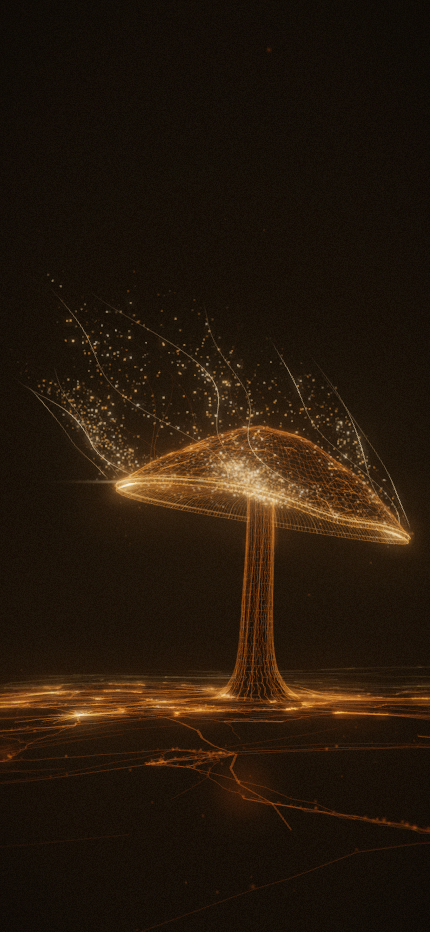
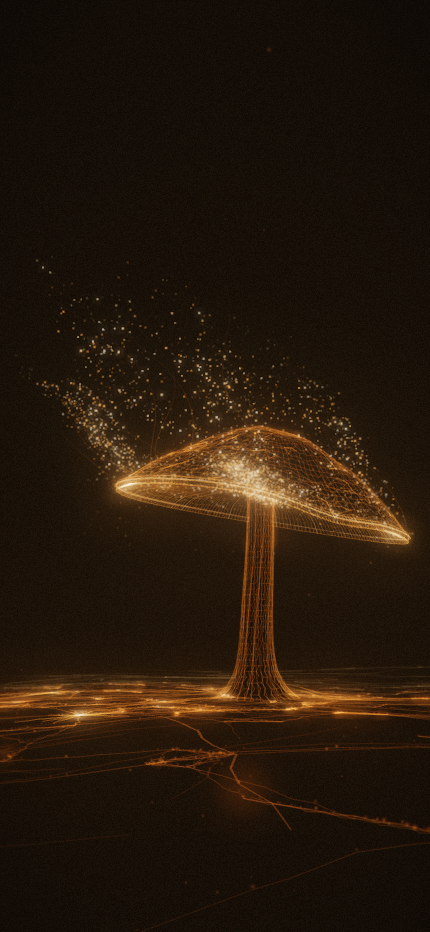
Inspire: the shed is emphasized, not replaced
Hannah rode into Inspire and found three things: a glitchy swap where the
old particles disappear and new ones arrive, plumes that "look like ARROWS
... trashy, because the arrows don't look like organic particles", and a
shed that should come from EVERYWHERE and merely be more emphasized in
three parts. They turned out to be one fault. The leg was authored as a
REPLACEMENT: the whole shed was dimmed away and a designed structure drawn
in its place. Every change here is the same move — stop deleting the shed.

The swap was a seam, and it was our own regression. T1 armed 40.3 deg from
Mission, absolute azimuth 28.1 — ten degrees INSIDE a reveal ramp that
already starts at az 14. That was right when it was written; c6bbbab pulled
the ramps in to make the three streams resolve and left the seam behind,
along with a comment still promising it could never step on them. Measured
across that one gate: 0 -> 1975 converted dots, total shed luminance -22.2%,
dots above 0.60 luminance -47%. The threshold is now derived from the ramps
rather than chosen, so both its edges sit where the reveal is exactly zero.

The disappearance was double-counting. spores.js already hands over per dot
-- f = f * (1 - cv) + pw, conservative by construction. On top of it the
chapter ran three more whole-population dim channels, which took light from
the dots that had not converted yet: they lost ambient and gained no plume.
Total luminance fell 30% mid-approach, and 42% of the shed dropped below a
[…]

Changed region(s): [[0.0907, 0.3112, 0.9372, 0.5601], [0.3628, 0.3423, 0.393, 0.3734]]

diff --git a/journey/chapters/inspire/index.js b/journey/chapters/inspire/index.js
@@ -161,7 +161,15 @@ const tmpC = new THREE.Color();
 const T_SHIPPED = 0.85;
 const T_STEP = 0.05;
 const STREAK_FLOOR = 0.25;
-const CORE_OPACITY = 0.62;               // the ribbons' authored opacity
+// CORE RIBBONS — RETIRED (Hannah, 2026-08-06: "it looks like ARROWS ... the
+// arrows don't look like organic particles"). They were 648 drawn LineSegments
+// threading each braid at 0.53 opacity, and in the inspire golden they were the
+// long pale strokes arcing over the cap — the single loudest non-particulate
+// form in the frame, and a different substance from the warm dust the opening
+// view sheds. A continuous line cannot read as dust at any opacity, so this is
+// zero rather than a smaller number. The braid is carried by the dots alone,
+// which is what §3's one-population claim always said it was.
+const CORE_OPACITY = 0.0;
 // clamping/grid-snap now lives in ../../dial.js (createDial), which this
 // module's tDial instance owns — see the master TRANSFORM state block below.
 // ribbons: x T with an extra low-end gate so they are effectively gone below
@@ -799,6 +807,11 @@ export function createInspire(sceneApi) {
     g.setAttribute('aRimC', new THREE.Float32BufferAttribute(rArr, 3));
     const l = new THREE.LineSegments(g, coreMat);
     l.frustumCulled = false;                             // positions live in the shader
+    // RETIRED with CORE_OPACITY (see its note): kept built but never drawn, so
+    // the trace-back uniform writes below stay valid and the ribbon is one
+    // constant away from returning if the dots ever need help again. Marking it
+    // invisible — not just transparent — is what actually drops the draw call.
+    l.visible = false;
     group.add(l);
     return l;
   })();
@@ -1077,7 +1090,11 @@ export function createInspire(sceneApi) {
       for (let i = 0; i < 3; i++) {
         c.setComponent(i, ((i === active || i === selected) ? 1 : (i === effActive ? 0.35 : 0)) * T);
         const st = streaks[i];
-        st.o = (i === effActive ? 0.42 : 0) * furnOf(i) * stkScale;
+        // hover/selection only — MUST stay identical to the animator's `want`
+        // (see the note there). snap() is the path every frozen capture and
+        // every ?p= deep link takes, because dt = 0 freezes the animator's
+        // easing, so a law that lives in both places has to be changed in both.
+        st.o = ((i === active || i === selected) ? 0.42 : 0) * furnOf(i) * stkScale;
         st.sprite.visible = st.o > 0.01;
         for (const m of exits[i].mats) {
           const fadeV = m === exits[i].wispMat ? eff[i] : furnOf(i);
@@ -1258,43 +1275,45 @@ export function createInspire(sceneApi) {
       cohTarget[i] = ((i === active || i === selected) ? 1 : (i === effActive ? 0.35 : 0)) * T;
     }
 
-    // The shed's half of the handoff — runs OUTSIDE the anyVisible gate so
-    // the exact restore fires when the leg retires. Region strength tracks
-    // each exit's effective reveal; endpoints ride the live mushroom matrix.
+    // THE SHED DOES NOT CEDE ANY MORE — it is EMPHASIZED (Hannah, 2026-08-06:
+    // "there should be particles coming from EVERYWHERE, but they should just
+    // be MORE EMPHASIZED in three parts"). All three dim channels below are
+    // retired to zero, and the reason is arithmetic, not taste.
+    //
+    // organism/spores.js already performs the whole hand-over PER DOT, in the
+    // one line `f = f * (1 - cv) + pw`: a dot cedes exactly as much of its
+    // ambient look as it has actually converted, and gains exactly its own
+    // plume brightness. That is conservative by construction. Every channel
+    // here was a SECOND, whole-population hand-over stacked on top of it, and
+    // it double-counted against the dots that had not converted yet — they
+    // lost ambient light while gaining no plume light. Measured on the live
+    // buffer across the approach: total shed luminance 2746 (p 0.115) -> 1920
+    // (p 0.14), a 30% trough, with dots above 0.30 luminance falling 4200 ->
+    // 2426 before recovering. That trough IS "the particles that are there
+    // before kind of disappear, and then new particles appear".
+    //
+    // The three channels, and why each is zero rather than smaller:
+    //   regions — dimmed the shed exactly where each plume lives, i.e. it
+    //     cleared the background out from behind the emphasis. Under the new
+    //     model the surrounding shed is the SUBJECT, not the background.
+    //   globalK — dimmed the whole curtain to 3% at full reveal. It existed
+    //     for ride-through #3 ("the plumes must not ignite BESIDE the old
+    //     curtain"), which the per-dot exchange answers on its own.
+    //   grad — dissolved the far-downwind history. Those are real spores the
+    //     opening view sheds; deleting them is the disappearance by name.
+    // Zero is also the only value that is exactly reversible for free.
     const mw = sceneApi.groups.mushroom.matrixWorld;
     for (const rg of shedRegions) {
       rg.a.copy(rg.la).applyMatrix4(mw);
       rg.b.copy(rg.lb).applyMatrix4(mw);
-      // taste dial: the shed only cedes as far as the braid actually takes
-      // over — every dim channel scales with the same T as the takeover
-      rg.k = rg.gain * eff[rg.exit] * T;
+      rg.k = 0;
     }
-    // Ride-through #3 (Hannah): the plumes must not ignite BESIDE the old
-    // curtain — as the exits complete, the WHOLE shed cedes to the structured
-    // system. Delta retime (Hannah's third note): the hand-over is now WEIGHTED
-    // ACROSS the three phases instead of keyed to the furthest exit, so the
-    // original stream's curtain survives phase A at ~50% and only finishes
-    // ceding as the LAST current arrives — the source never dies before its
-    // delta has visibly taken over. Still a pure function of the effective
-    // reveals: reverse scroll re-inflates the curtain the same way.
-    const S3 = (x) => { x = (x - 0.25) / 0.65; x = x < 0 ? 0 : x > 1 ? 1 : x; return x * x * (3 - 2 * x); };
-    // taste dial: the whole-shed cede scales with T — at T = 0 the curtain
-    // never dims at all (the stream stays exactly the hero's)
-    const gk = (0.50 * S3(eff[0]) + 0.28 * S3(eff[1]) + 0.22 * S3(eff[2])) * T;
-    // Ride-through #5 (Hannah, "still two sources"): the shed's FAR-DOWNWIND
-    // history — old spores that drifted away long before the orbit — hangs in
-    // the sky as a detached cloud while the braid grows at the rim. It is not
-    // the source; it dissolves EARLY (with the first arrival), distance-graded
-    // from the cap centre, while the near-rim live stream follows `gk` above
-    // and is absorbed by the braid. One stream, no history-ghost.
-    let hk = (eff[0] - 0.02) / 0.22;
-    hk = hk < 0 ? 0 : hk > 1 ? 1 : hk;
-    hk = hk * hk * (3 - 2 * hk);
+    const gk = 0;
     _capC.set(0, sceneApi.consts.CAP_Y, 0).applyMatrix4(mw);
     _grad.sx = _capC.x; _grad.sy = _capC.y; _grad.sz = _capC.z;
     _grad.d0 = sceneApi.consts.CAP_R * 1.2;
     _grad.d1 = sceneApi.consts.CAP_R * 2.6;
-    _grad.k = hk * T;   // taste dial: history dissolve is a dim channel too
+    _grad.k = 0;
     // The seat, driven (runs OUTSIDE the anyVisible gate so the release path
     // always executes): one call carries the whole frame's intent — the
     // system steers its own dots first, then its color pass reads the
@@ -1344,9 +1363,17 @@ export function createInspire(sceneApi) {
 
     for (let i = 0; i < 3; i++) {
       const st = streaks[i];
+      // HOVER/SELECTION ONLY (Hannah, 2026-08-06). This sprite is a 12:1
+      // anamorphic blade — the hardest, whitest, least particulate form in the
+      // chapter — and it used to sit lit at the REST on the merely-derived auto
+      // exit, which is the white bar across the cap's left rim in the old
+      // inspire golden. It is a lens answering a poke, not a resting state, so
+      // the derived case is now zero and only a real hover or an open card
+      // lights it. The chips are unaffected: nodeWorld() anchors off
+      // streaks[i].localPos, a position, which exists whether or not it draws.
       // taste dial: the streak keeps a modest floor even at T = 0 — it is
       // the active label's living anchor (see stkScale above)
-      const want = (i === effActive ? 0.42 : 0) * furnOf(i) * stkScale;
+      const want = ((i === active || i === selected) ? 0.42 : 0) * furnOf(i) * stkScale;
       st.o += (want - st.o) * Math.min(1, dt * 2.4);
       if (st.o < 0.02 && want === 0) st.o = 0;   // die cleanly, no lingering blade
       // a lens catching an exceptional source: slow breathing, slight shimmer

diff --git a/journey/seams.js b/journey/seams.js
@@ -87,17 +87,36 @@ export function createSeams({ camera, chapters, missionAz = -0.213 }) {
 
     // T1 - stream-side reveal (D16 restage: the orbit is now a ~90 deg swing
     // toward the visible stream, so the old ~100 deg rear threshold would
-    // never be crossed). Arms once the azimuth passes ~48 deg from the
-    // Mission azimuth — comfortably before the reveal ramps begin (az ~34 in
-    // desktop-absolute terms = ~46 deg past Mission) and far outside the
-    // orbit-breath wobble. The journey's own progress is an equally valid
+    // never be crossed). The journey's own progress is an equally valid
     // driver, but the ADR specifies the camera predicate, so that is what
     // runs; p only supplies the relaxation once the path has dropped under
     // the cap on its way to Connect.
+    //
+    // THE THRESHOLD IS 34, AND IT IS DERIVED, NOT CHOSEN (2026-08-06). Arming
+    // must land where the chapter's own CAMERA-PURE reveal is exactly zero —
+    // the same law T2 states below, and the only thing that makes a seam
+    // invisible rather than merely small. Inspire's reveal is
+    // `sm(18, 48, az) * arrOf(az, 14, 44)` (chapters/inspire/index.js), so it
+    // is identically zero for absolute az <= 14, i.e. d <= 26.2 with Mission at
+    // az -12.21. With HYS_DEG = 8 the gate arms at d > 34 - 8 = 26 (az 13.8)
+    // and releases at d < 34 - 16 = 18 (az 5.8): BOTH edges sit on exact zero,
+    // with both factors of the product zero, so a shaky scrub cannot strobe
+    // anything visible either way.
+    //
+    // It used to be 48, which armed at d = 40 (az 28.1) — TEN DEGREES INSIDE an
+    // already-open ramp. 48 was correct when it was written: the ramps then
+    // began at az 36, exactly where it armed. Commit c6bbbab pulled them in to
+    // (18,48)/(38,62)/(54,78) to make the three streams resolve and did not
+    // move this number with them, so the gate started opening onto a reveal
+    // that was already ~15% up. Measured on the live buffer either side of that
+    // crossing: converted dots 0 -> 1975 in one gate, total shed luminance
+    // -22.2%, dots above 0.60 luminance -47%. That step is the "different
+    // stream of particles that appears" Hannah reported. Anything that re-keys
+    // those ramps must re-derive this number from them again.
     {
       const d = Math.abs(((az - missionAz + Math.PI) % (2 * Math.PI) + 2 * Math.PI) % (2 * Math.PI) - Math.PI) / DEG;
-      const inside = d > 48 - HYS_DEG && p < T1_RELAX_IN;
-      const outside = d < 48 - HYS_DEG * 2 || p > T1_RELAX_OUT;
+      const inside = d > 34 - HYS_DEG && p < T1_RELAX_IN;
+      const outside = d < 34 - HYS_DEG * 2 || p > T1_RELAX_OUT;
       const on = gate('rear-cap', inside, outside, now);
       chapters.inspire.setArmed(on);
     }

diff --git a/journey/chapters/inspire/anatomy.js b/journey/chapters/inspire/anatomy.js
@@ -70,8 +70,28 @@
 // pearls along each winding core read. ArtCompute's is damped to 0.58 because
 // it already carries half the dots — without that the centre braid drowns the
 // two flanks and the frame reads as one plume with wings.
+// RISE SPREAD IS THE DENSITY DIAL (2026-08-06). Each plume's dots are handed a
+// rise drawn uniformly from [riseMin, riseMax], so the MEAN sets where the
+// plume ends — the composition, the chip clearance, the dome crossing — and the
+// SPREAD sets how concentrated it reads on the way there. Those are separable,
+// and until now only the mean was being used.
+//
+// This matters because the exit weighting is 50/28/22 (W_EXIT0 in
+// organism/spores.js, read-only), so ArtCompute has 2,100 dots against 2RP's
+// 924 and outshines both flanks however they are lit — the residual this file
+// has carried since D18. With the core ribbons retired (see index.js) the dots
+// are the only thing marking the three regions, so the flanks have to earn
+// their definition from density rather than from a drawn line through them.
+//
+// Every mean below is UNCHANGED to 3 decimal places, so no plume moves and the
+// approved D18 composition, label solve and clearances all still hold:
+//   ArtCompute 1.70-2.20 -> 1.55-2.35  mean 1.950 (spread x1.60: deliberately
+//     DIFFUSED, so the centre stops drowning the flanks)
+//   Arca       1.05-1.40 -> 1.13-1.32  mean 1.225 (spread x0.54: concentrated)
+//   2RP        1.76-2.21 -> 1.87-2.10  mean 1.985 (spread x0.51: concentrated,
+//     the weakest plume and the one that needed it most)
 export const EXITS = [
-  { id: 'artcompute',   label: 'ArtCompute',         az: 5.83, riseMin: 1.7, riseMax: 2.2, lean: 0.52, tone: 0.66, knot: 0.58 },
-  { id: 'arca',         label: 'Arca Gidan Prize',   az: 6.98, riseMin: 1.05, riseMax: 1.4, lean: 0.42, tone: 0.6, knot: 0.95 },
-  { id: '2rp',          label: '2RP',                az: 4.68, riseMin: 1.76, riseMax: 2.21, lean: 0.38, tone: 0.74, knot: 1.0 },
+  { id: 'artcompute',   label: 'ArtCompute',         az: 5.83, riseMin: 1.55, riseMax: 2.35, lean: 0.52, tone: 0.66, knot: 0.58 },
+  { id: 'arca',         label: 'Arca Gidan Prize',   az: 6.98, riseMin: 1.13, riseMax: 1.32, lean: 0.42, tone: 0.6, knot: 0.95 },
+  { id: '2rp',          label: '2RP',                az: 4.68, riseMin: 1.87, riseMax: 2.10, lean: 0.38, tone: 0.74, knot: 1.0 },
 ];

diff --git a/journey-v6-plan/07-chapter-inspire.md b/journey-v6-plan/07-chapter-inspire.md
@@ -181,3 +181,163 @@ per-exit fades → (18,48)/(38,62)/(54,78), band (5,28).
   thing when I rotate around" note that `T` was introduced to restrain. It is
   the number in this restage most likely to want Hannah's own eye; `?t=` still
   rides it live, and below ~0.78 the three streams collapse back into one.
+
+---
+
+## 2026-08-06 — The shed is EMPHASIZED, not replaced (Hannah)
+
+Hannah, on the ride into Inspire: *"it feels like there's a different stream of
+particles that appears … the particles that are there before kind of disappear,
+and then new particles appear, and it's just a really glitchy transition … the
+one that shows when you turn around, it looks like ARROWS. It looks kind of
+trashy as a result, because the arrows don't look like organic particles. And
+also — there should be particles coming from EVERYWHERE, but they should just be
+MORE EMPHASIZED in three parts."*
+
+Three complaints, one root: **the leg was authored as a REPLACEMENT.** The whole
+shed was dimmed away and a designed structure was drawn in its place. Every fix
+below is the same move — stop deleting the shed, and let the three regions be
+emphases *within* it.
+
+### Diagnosis, with the numbers that found it
+
+All figures are the live 4,200-dot buffer at 1440×900: luminance is Rec.709 on
+the colour attribute, "v30"/"v60" are dot counts above 0.30 / 0.60 luminance,
+"cvAct" is dots with conversion > 0.01 read off the seat's own per-dot feed.
+The sampling noise floor, from 8 repeats parked at the rest, is ±2.0% on total
+light, ±2.3% on v30, ±3.0% on v60.
+
+**1. The swap was a seam, and it was a regression.** `seams.js` armed T1 at
+`d > 48 - HYS_DEG` = 40.3° from Mission, i.e. absolute camera azimuth 28.1°. But
+the chapter's reveal is `sm(18,48,az) × arrOf(az,14,44)`, which starts opening at
+az 14. **Arming therefore landed ten degrees inside an already-open ramp.**
+Measured either side of that one crossing (p 0.115 → 0.118):
+
+| | before gate | after gate | Δ |
+|---|---|---|---|
+| converted dots | 0 | 1975 | **0 → 47% of the shed, in one gate** |
+| total shed luminance | 2746.2 | 2137.4 | **−22.2%** |
+| luminance P50 | 0.643 | 0.502 | −22.0% |
+| luminance P99 | 0.901 | 1.126 | **+25.0%** |
+| v30 | 4200 | 3530 | −16.0% |
+| v60 | 2475 | 1318 | **−47.4%** |
+
+48 was *correct when it was written* — the ramps then began at az 36, exactly
+where it armed, and the comment above it said so. **D18 (`c6bbbab`) pulled the
+ramps in to (18,48)/(38,62)/(54,78) to make the three streams resolve, and did
+not move the seam with them.** The stale comment asserting "arming can never step
+on it" survived and was false in both its numbers.
+
+**2. The disappearance was a light-budget trough, and it was double-counting.**
+`organism/spores.js` already performs the entire hand-over per dot, in one line:
+`f = f * (1 - cv) + pw` — a dot cedes exactly as much ambient look as it has
+converted and gains exactly its own plume brightness. That is conservative by
+construction. On top of it the chapter ran **three more whole-population dim
+channels** (`regions`, `globalK`, `grad`), which dimmed the dots that had *not*
+converted yet: they lost ambient light while gaining no plume light. Measured
+across the approach, total shed luminance fell **2746 → 1920 at p 0.14, a −30%
+trough**, with v30 collapsing 4200 → 2426 (−42%) before recovering. That trough
+is "the particles that are there before kind of disappear".
+
+**3. The arrows were not the dots — they were drawn line geometry.** Inventory
+at the rest: **648 core-ribbon `LineSegments` at 0.527 opacity**, 840 source-
+filament segments at 0.425, 360 wisp segments, 204 rim-link segments, and a
+**12:1 anamorphic streak sprite** (2.1 × 0.17) lit on the merely-derived auto
+exit. In the old golden these are the long pale strokes arcing over the cap and
+the hard white bar at the left rim — cooler-toned than the warm dust, and the
+only non-particulate forms in the frame. The dots contributed too: `PLUME_GAIN`
+plus the `kn⁴` pearl cadence on the tightened core cohort put luminance P99 at
+**1.45 (max 2.1) against the shed's own 0.90 ceiling**, +61%, which reads as
+specular streak heads rather than dust.
+
+**4. "Everywhere" was structurally impossible, and T is not the lever.**
+`initSteer` partitions **all 4,200 dots** across the three exits (50/28/22);
+measured `cvAct = 4200 / 4200` at the rest. Revealing three exits claims the
+entire shed — there is no ambient remainder by construction. And the obvious
+escape does not work: swept on the shipped build, T from 0.20 to 1.00 moved
+cap-azimuth sector occupancy only between 7 and 10 sectors (p 0 = 10) and
+luminance entropy between 1.94 and 2.14 nats (p 0 = 2.223) — i.e. **lowering T
+does not give the shed its spread back**, it only merges the three lobes into
+one (1 lobe at T ≤ 0.78, 3 from T ≥ 0.85, confirming D18's knee independently).
+T blurs the braids; it does not restore a shed.
+
+### The model as shipped: everywhere, emphasized in three
+
+- **The shed never cedes.** `regions`, `globalK` and `grad` are all zero. The
+  per-dot exchange in the spore system is the *only* hand-over, so brightness is
+  conserved dot by dot and the surrounding shed survives the whole transition.
+  Zero, not smaller: it is the only value that is exactly reversible for free.
+- **The emphasis is density, not deletion.** Each plume's dots draw a rise from
+  `[riseMin, riseMax]`; the **mean** sets where the plume ends (composition, chip
+  clearance, dome crossing) and the **spread** sets how concentrated it reads on
+  the way there. Those are separable and only the mean had been used. Every mean
+  is unchanged to three decimals — no plume moves — while the spread is re-dialled:
+  ArtCompute ×1.60 (deliberately diffused, so the 2,100-dot centre stops drowning
+  the flanks), Arca ×0.54 and 2RP ×0.51 (concentrated). This is what replaces the
+  ribbons as the thing that marks three regions.
+- **The seam is derived, not chosen.** T1's threshold is now 34, so it arms at
+  d 26 (az 13.8) and releases at d 18 (az 5.8) — **both edges where both factors
+  of the chapter's reveal product are exactly zero**, which is the same law T2
+  already states. Anything that re-keys those ramps must re-derive this number.
+- **Lines are not dust.** The core ribbons are retired (`CORE_OPACITY = 0` and
+  `visible = false`, so the draw call goes too) and the anamorphic streak is
+  hover/selection-only. A continuous line cannot read as dust at any opacity.
+
+### Measured after
+
+- **Arming is invisible.** At p 0.10 / az 16.5 the statistics are *identical* to
+  p 0: 2746.2 total, v30 4200, v60 2475, cvAct 0. No step at all.
+- **No trough.** Minimum total shed luminance across p 0 → 0.26 is **2643.8,
+  −3.7%** against the p 0 reference (was −30%). Minimum v60 **2372, −4.2%** (was
+  −47%). Minimum v30 **3473, −17.3%** (was −42%). Sampled at Δp 0.0025 the dips
+  are smooth ramps: worst adjacent step 7.6%, against a ±2% noise floor.
+- **The three streams survive.** Density profile of the plume band (48 bins,
+  y 90–470, averaged over 12 frames, three independent runs): **3 lobes at
+  495 / 765 / 975 px, relative 0.39 / 1.00 / 0.24, valleys 0.21 and 0.11.**
+  D18 measured 507 / 783 / 996, 0.36 / 1.00 / 0.28, valleys 0.21 and 0.21 — same
+  positions within 21 px, same weights, valleys as deep or deeper.
+- **Same composition, more substance.** Against the shipped build's own profile
+  the new one correlates at **Pearson r 0.990–0.997** (RMS 0.024–0.040 of peak)
+  over three y-bands — the shape Hannah approved is unchanged. What changed is
+  level: band light **+11%**, total light **+13%**, and contrast (weakest peak /
+  strongest gap) **0.604 vs 0.588**. The dim channels were never providing the
+  emphasis; they were only darkening everything.
+- **Ride.** Slow scrub p 0 → 0.45 → 0 at Δp 0.0025, 2,172 recorded frames: no
+  reveal channel re-rose after falling, on either leg (0.0000 on all six);
+  forward and backward agree to **0.001** across 203 matched positions; console
+  clean, zero errors or warnings.
+- **Cost.** Draw calls at the Inspire rest **55 → 53** (the ribbon `LineSegments`
+  and the resting streak sprite); 42 unchanged at Mission. Frame time is
+  display-locked at both ends (16.67 ms), so there is no measurable GPU delta to
+  report either way.
+- **References.** `capture.py --check`: mission **0.00 / 0.00**, connect
+  **0.00 / 0.00**, owned **0.00 / 0.00**, final **0.18 / 0.13** (its own
+  determinism noise, identical to the pre-change baseline). Only the inspire
+  pair was re-shot; the other eight PNGs are byte-identical by SHA-256 before and
+  after, and `manifest.json` was merged so they keep their original provenance.
+
+### Residual / open
+
+- **Two shallow troughs remain**, one per migrating exit: **−6.4%** total light
+  as Arca converts (p 0.140–0.1475) and **−4.4%** as 2RP does (p 0.1625–0.1675).
+  The mechanism is organism-side and the chapter cannot reach it: in `steer`, a
+  migrant's rise draw-on gate is `env *= 1 - ss(g0, rl + 0.001, u3)` with
+  `rl = rg * 1.12` and `rg = ss(0.55, 1, rev)`, so **every dot in a migrant's
+  braided-rise stage renders black until that exit's reveal passes 0.55** — while
+  `(1 - cv)` is already taking its ambient away. Half a migrant's cohort is in
+  that stage at any instant. Fixing it properly means letting the rise draw on
+  from the dot's own conversion rather than from a whole-exit threshold.
+- **A true "everywhere" reserve still needs the organism.** `initSteer` claims
+  100% of the dots for whatever exits are revealed, so there is no population
+  that stays on pure ambient drift while the three braids resolve. The minimal
+  honest change would be a claim field — `setDriver({ exits, shedShare })` — that
+  reserves a fraction of the 4,200 as never-steered: they would keep `cv = 0`
+  and `pw = 0`, the drift integrator would own them outright, and with the dim
+  channels already at zero they would render at full shed colour. That is the
+  literal reading of "particles coming from everywhere". What ships instead is
+  the perceptual reading: the shed is no longer deleted anywhere, so the field
+  between the emphases is continuous and lit.
+- **The flanks are still starved by `W_EXIT0`** (50/28/22, read-only): 2RP reads
+  at 0.24 of ArtCompute. Rise spread claws back what it can without moving any
+  plume; making the three genuinely equal still needs the exit weighting opened
+  up in the organism.
